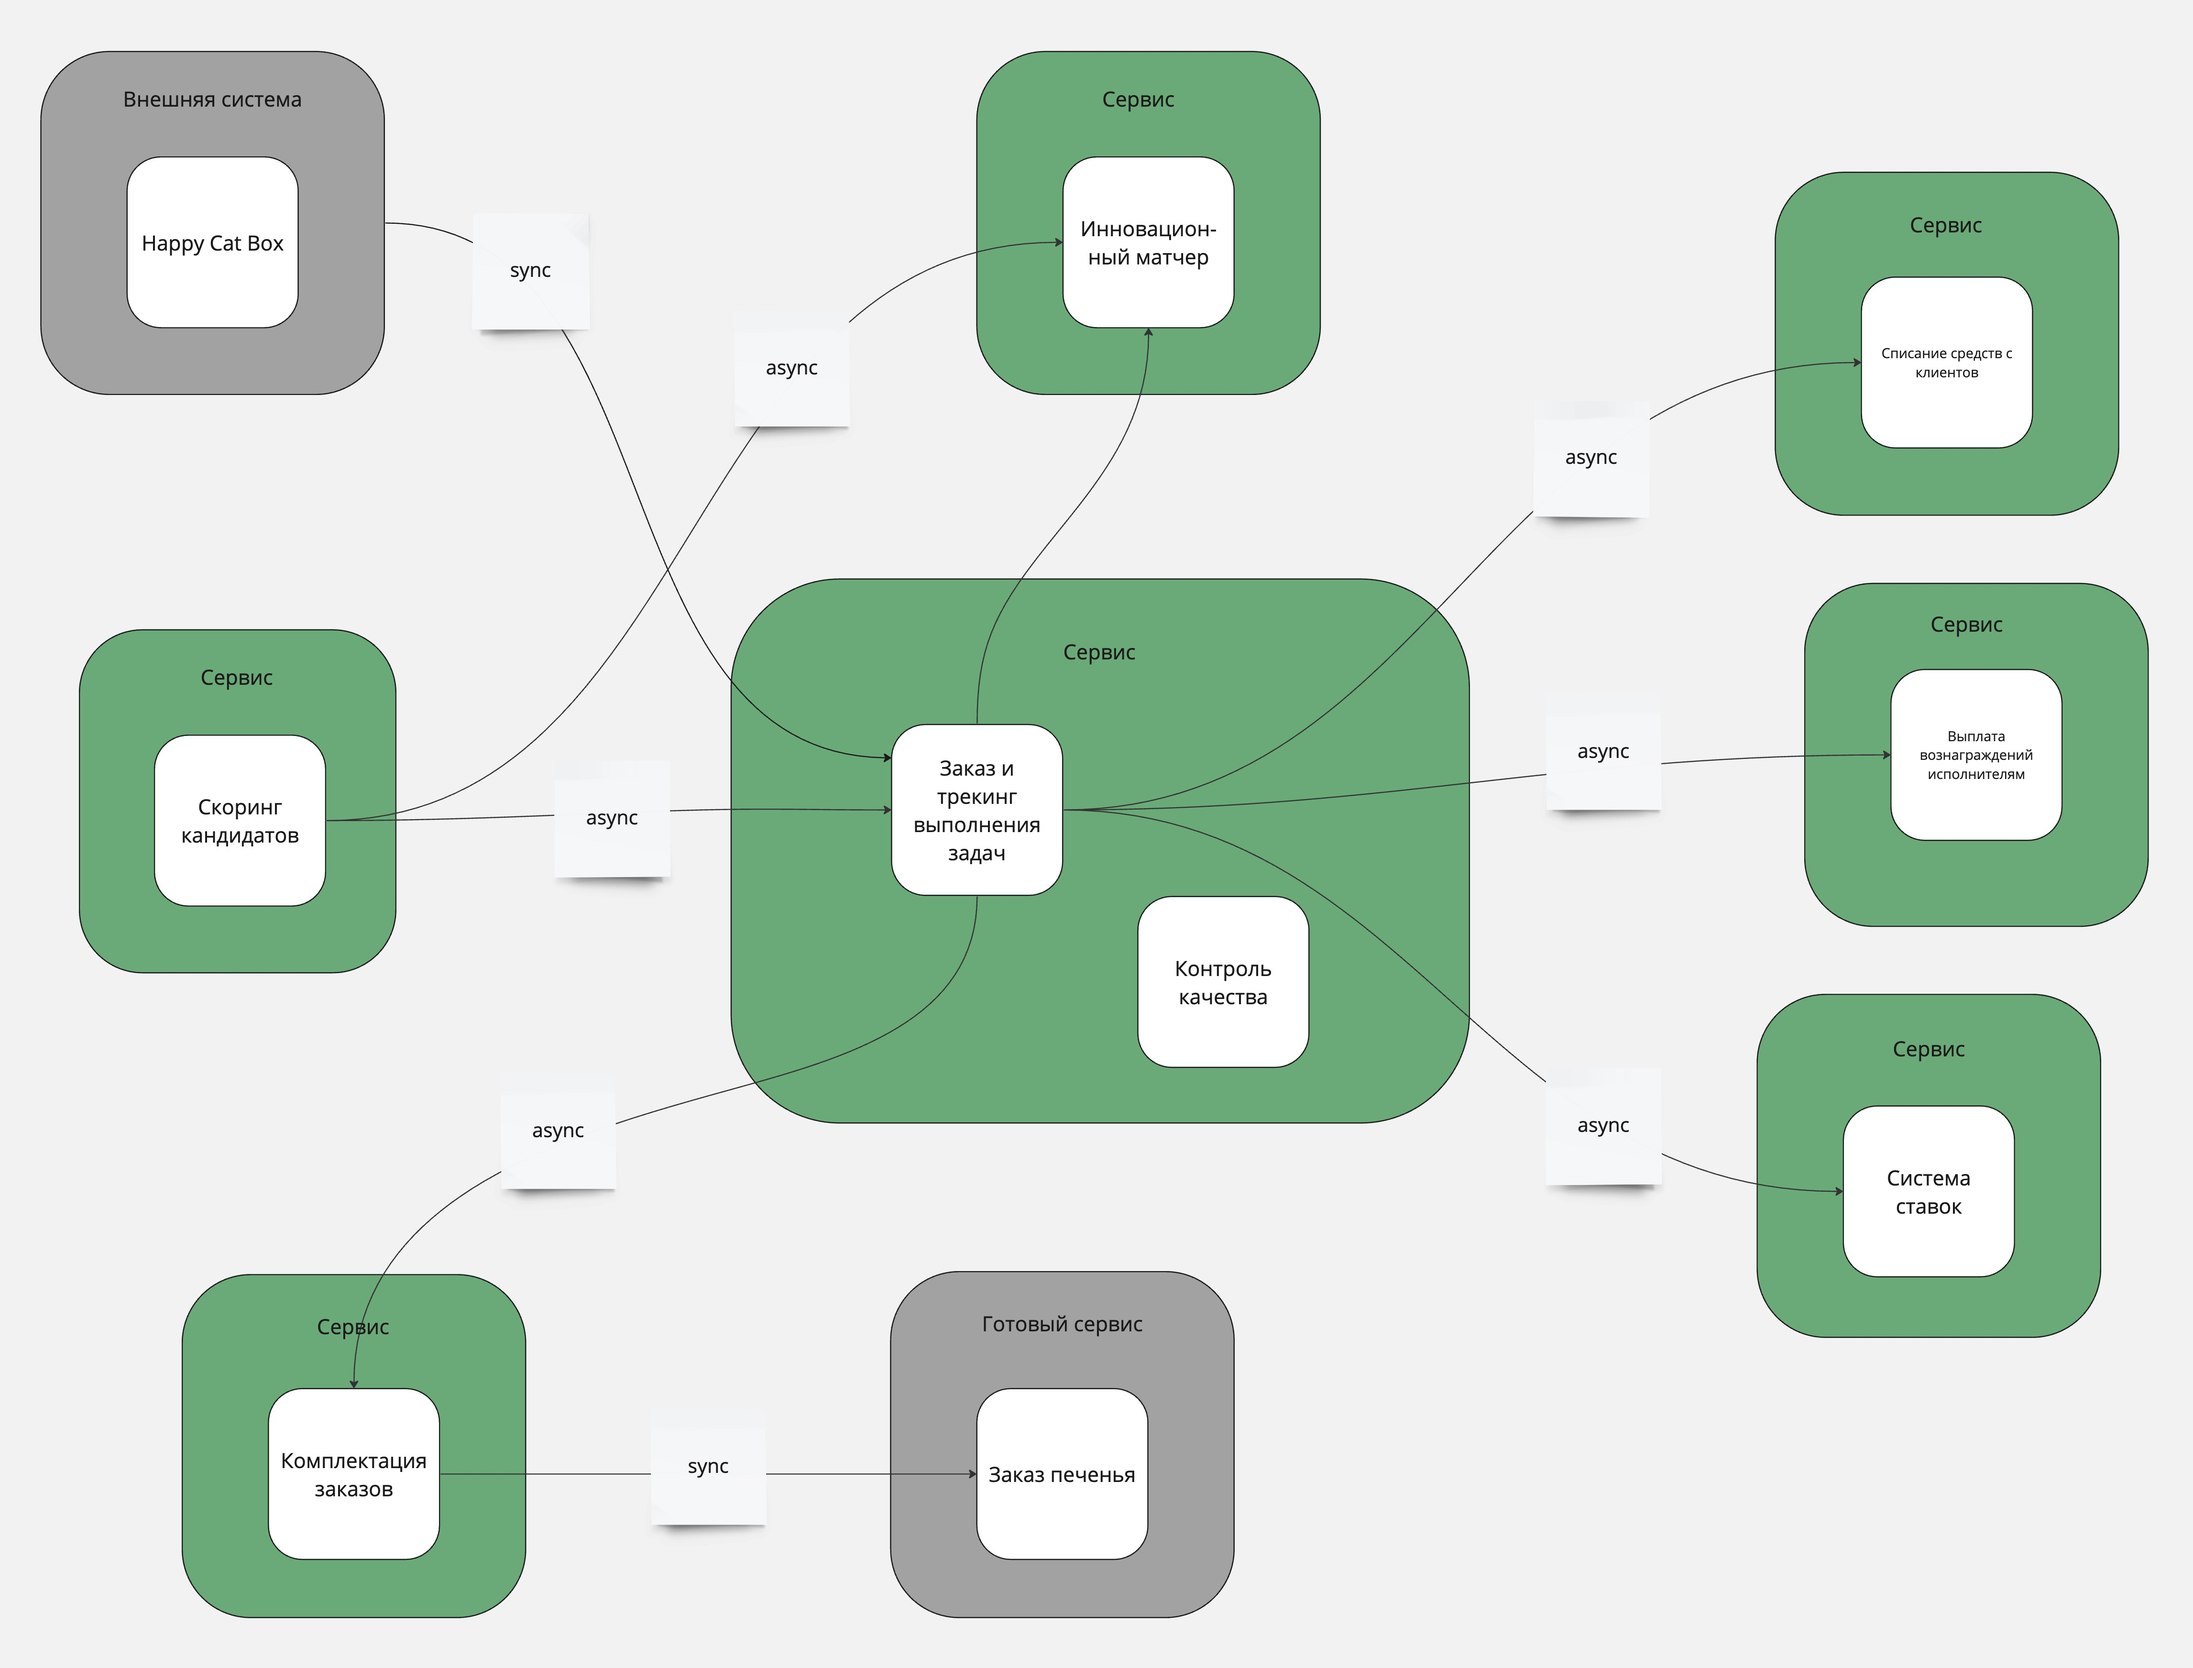
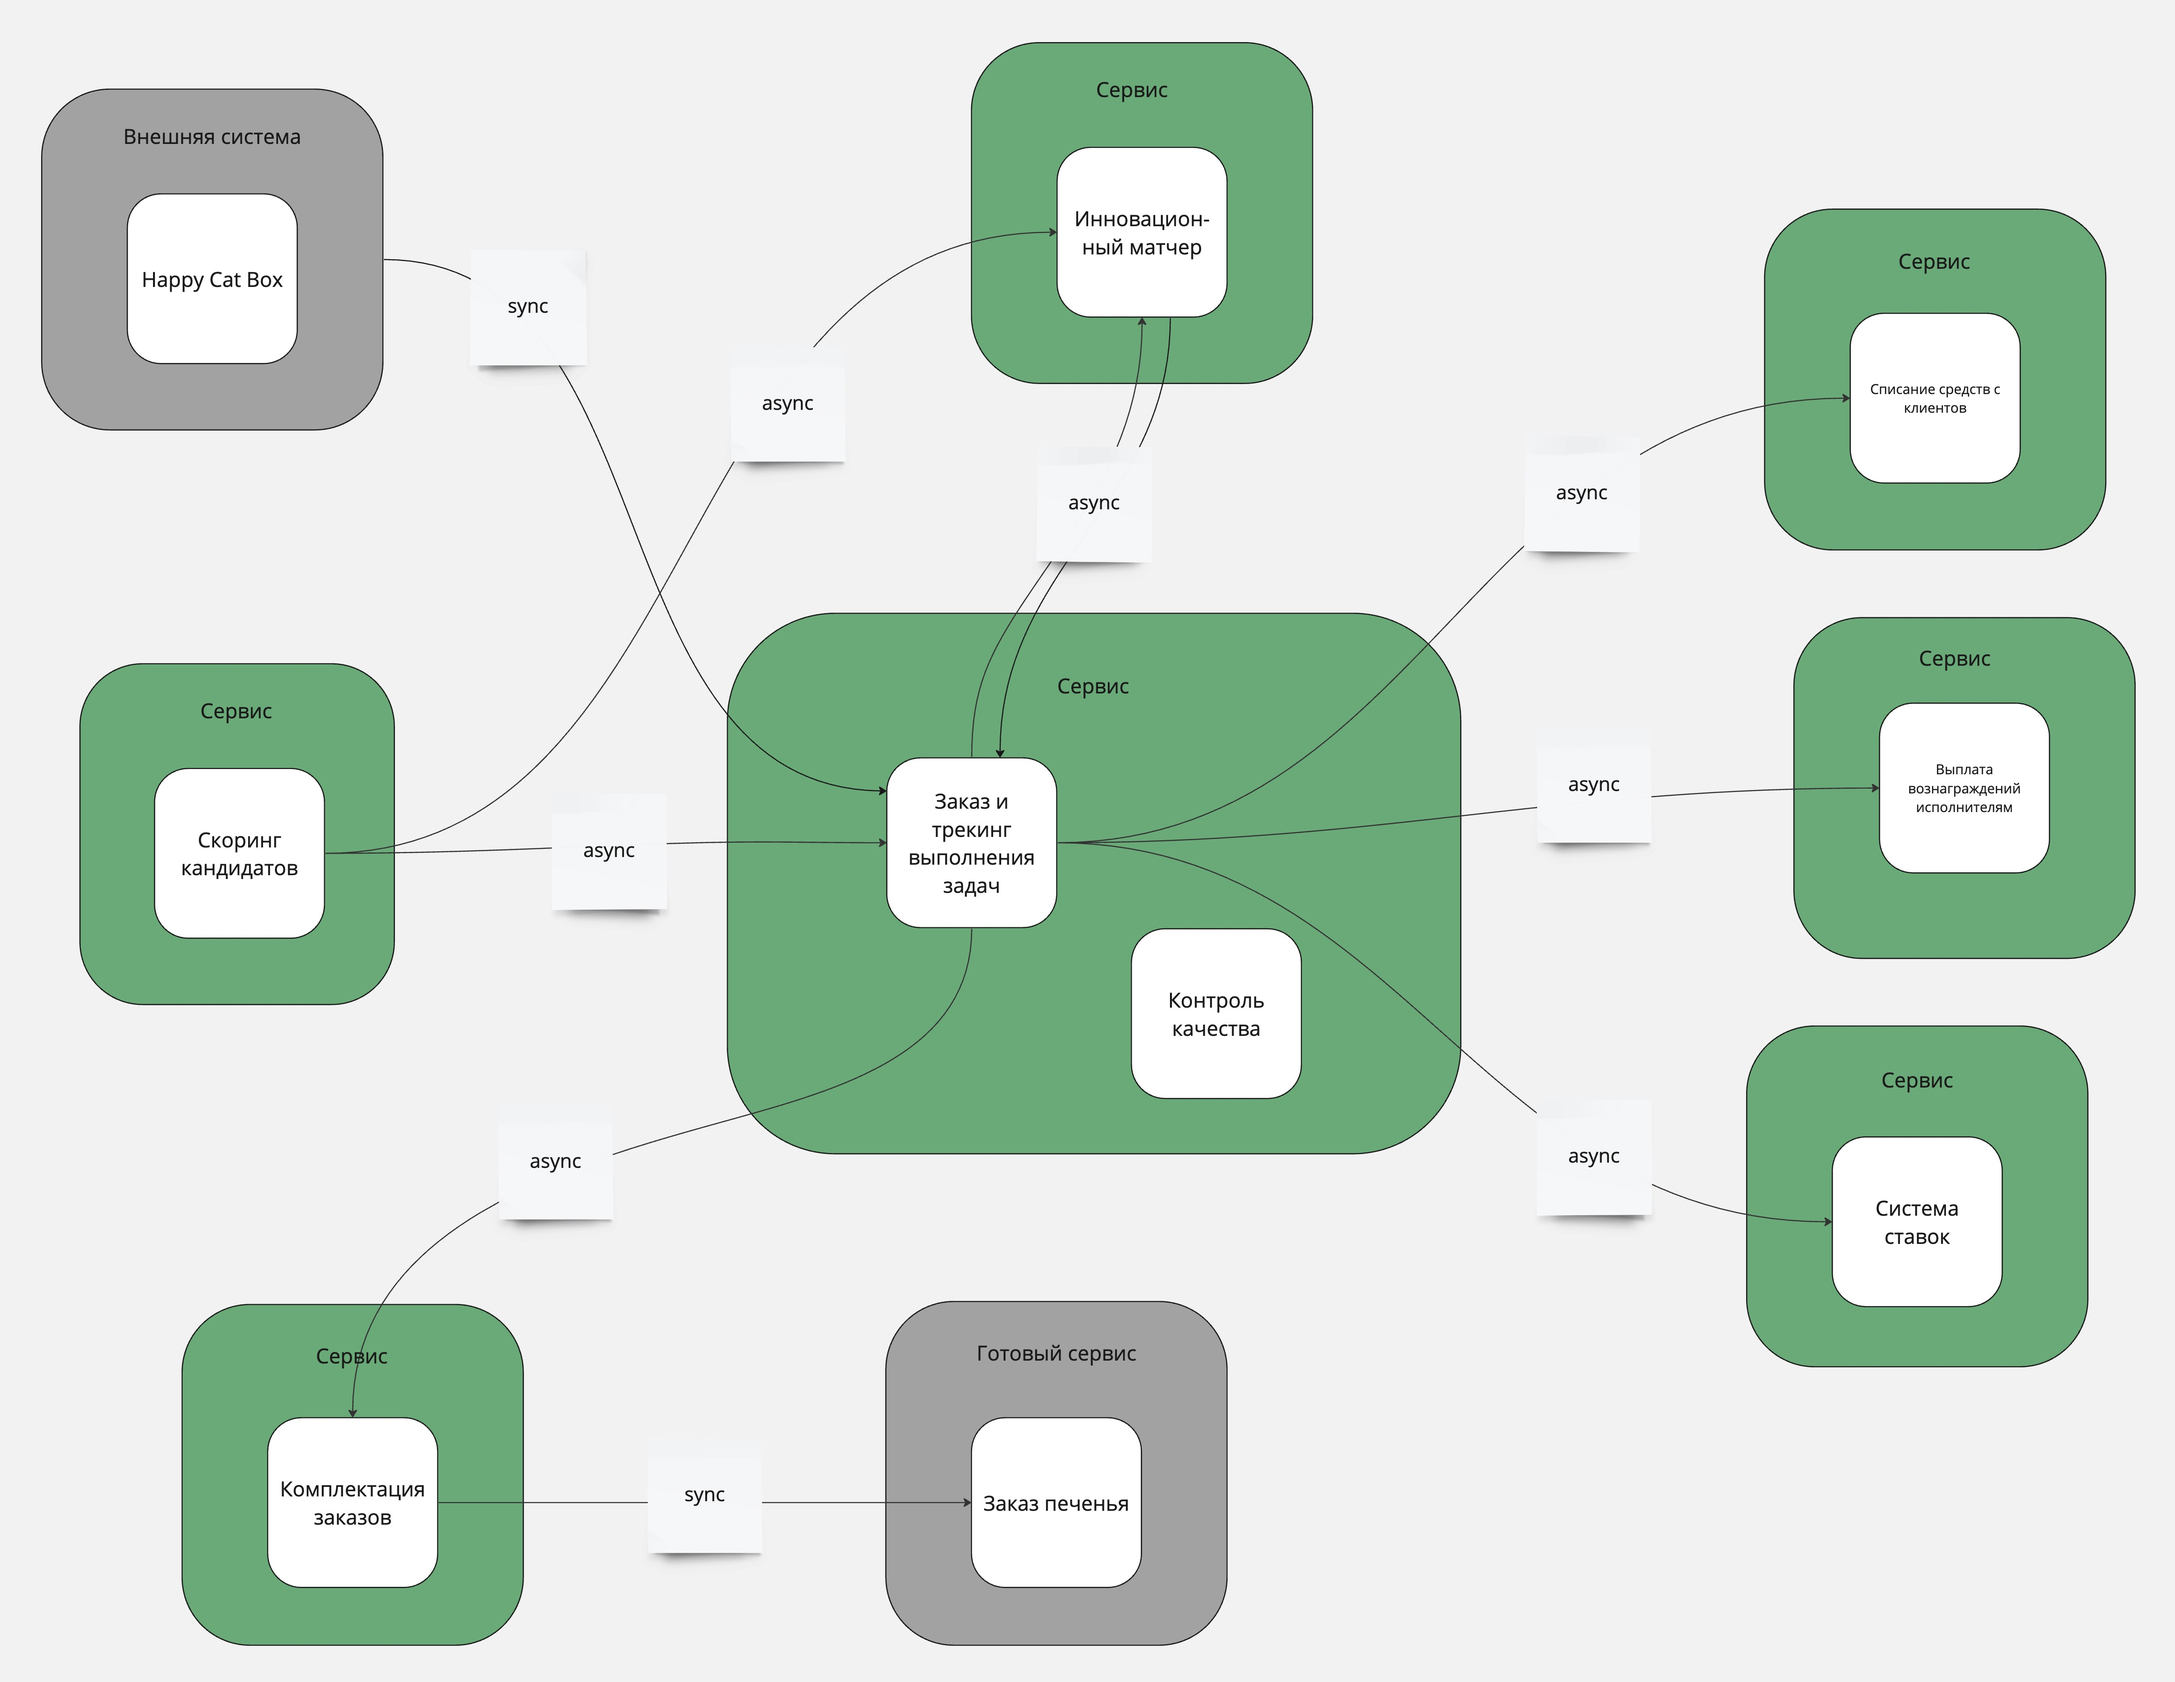
HW-4: Fixes

diff --git a/homework-4/README.md b/homework-4/README.md
@@ -1,6 +1,9 @@
 # ДЗ#4
 
 Содержание
+ - [Описание проблемы](#описание-проблемы)
+ - [Предложения по исправлению ситуации](#предложения-по-исправлению-ситуации)
+ - [Расчёт Instability](#расчёт-instability)
 
 ## Описание проблемы
 
@@ -33,6 +36,8 @@
    - Разные контексты.
 
 ## Предложения по исправлению ситуации
+
+![Transformation](https://github.com/foxy-eyed/mcf-project/blob/hw-4/homework-4/img/transformation.jpg)
 
 1. Выносим матчинг в отдельный сервис.
 2. Энтити-сервис воркеров объединяем с сервисом Скоринга, который будет асинхронно стримить данные о воркерах в 
